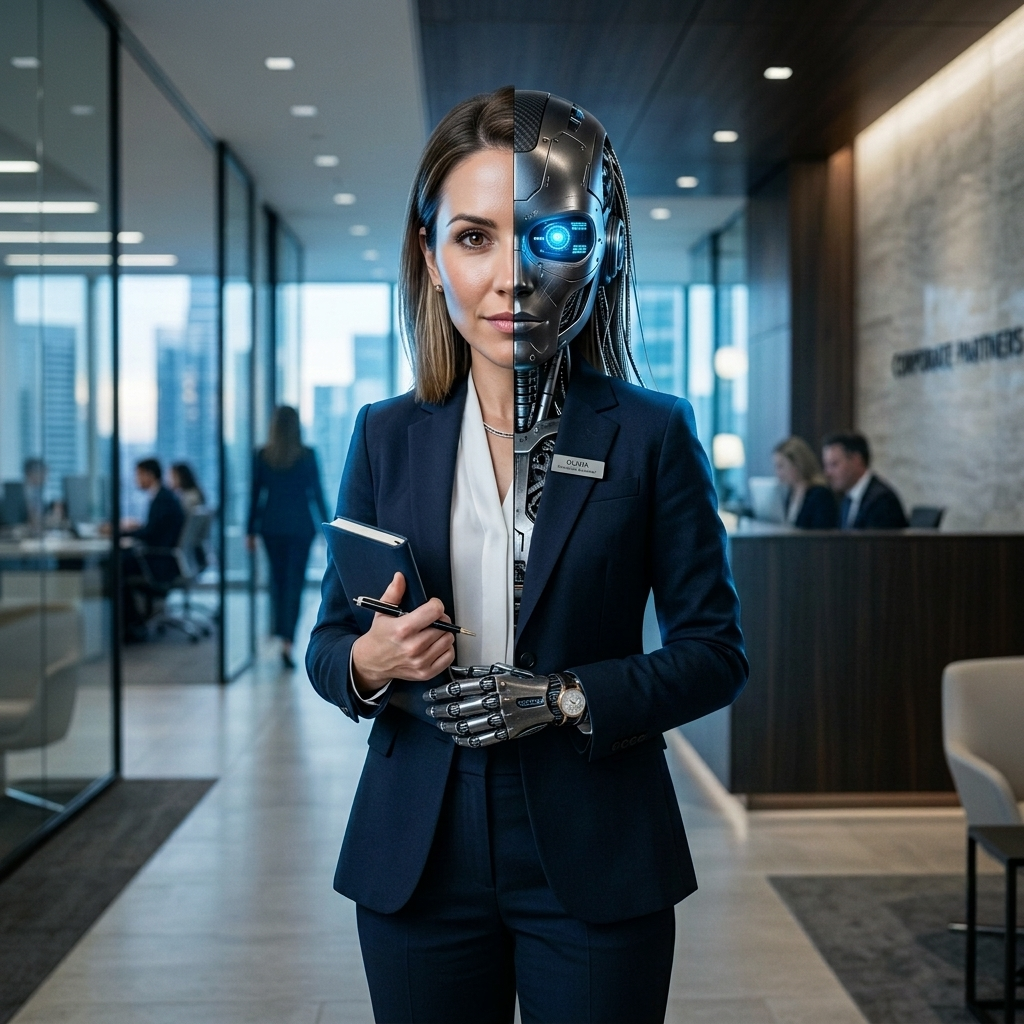
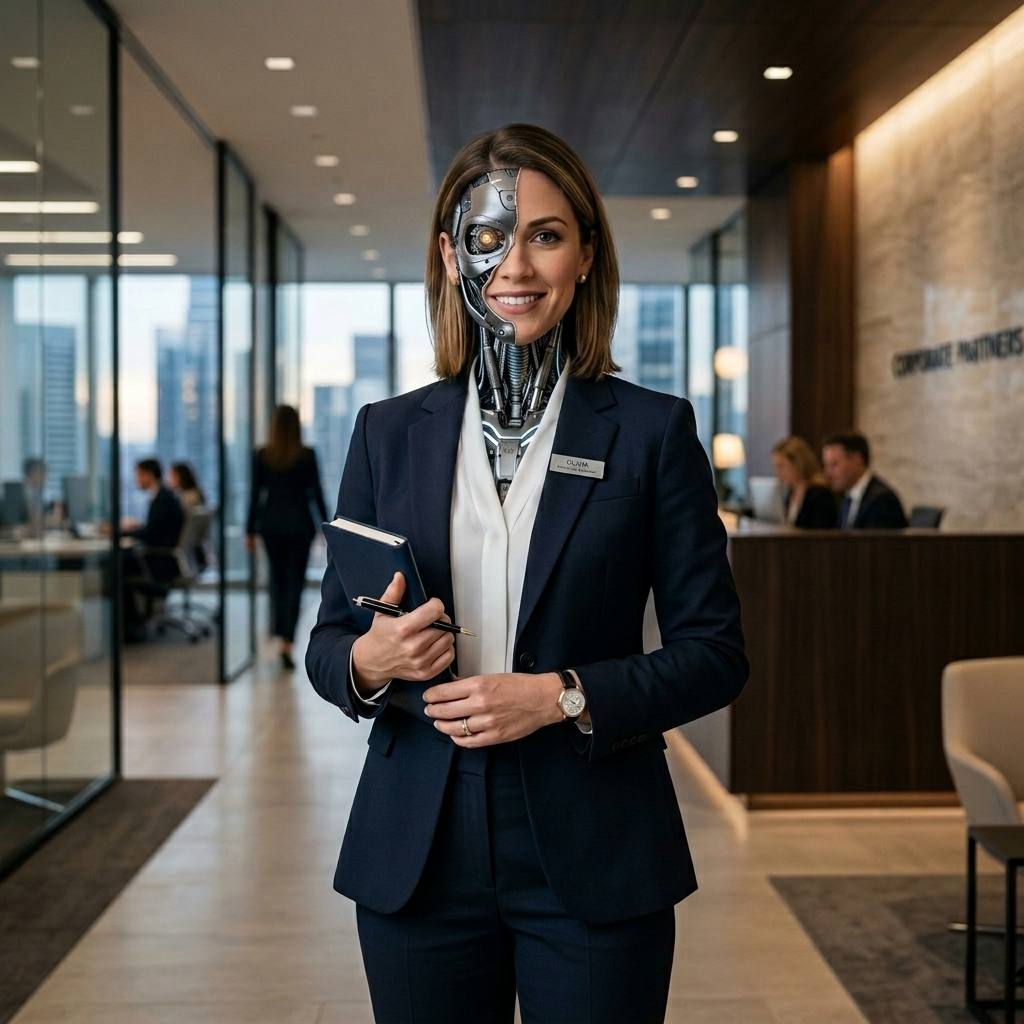
Add Quinn agent profile page + QuickBooks branding assets
- New agents/quinn.html: full profile (bank rec, AP/AR, payroll, GST/HST, monthly close)
- Time-savings table + interactive calculator (transactions, invoices)
- Quinn portrait + cyborg variant assets
- Quinn now linked from hero card, featured roster row, and footer roster lists

diff --git a/index.html b/index.html
@@ -87,7 +87,7 @@
                 <h3>Books closed by Friday.<br>Every Friday.</h3>
                 <div class="quinn-foot">
                     <img class="qb-logo" src="src/assets/quickbooks-logo.svg" alt="Certified for QuickBooks">
-                    <a href="#hire" class="play-row">
+                    <a href="agents/quinn.html" class="play-row">
                         <span class="play-btn">→</span>
                         <span class="play-label">Hire Quinn</span>
                     </a>
@@ -571,12 +571,13 @@
             </div>
             <div class="footer-links">
                 <div class="link-col">
-                    <h4>Roster</h4>
-                    <a href="#candidates">SDR</a>
-                    <a href="#candidates">Content Marketer</a>
-                    <a href="#candidates">Executive Assistant</a>
-                    <a href="#candidates">Paralegal</a>
-                    <a href="#candidates">Receptionist</a>
+                    <a href="agents/claire.html">Claire — Marketing</a>
+                    <a href="agents/sam.html">Sam — SDR</a>
+                    <a href="agents/olivia.html">Olivia — EA</a>
+                    <a href="agents/david.html">David — Paralegal</a>
+                    <a href="agents/maya.html">Maya — Receptionist</a>
+                    <a href="agents/theo.html">Theo — Community</a>
+                    <a href="agents/quinn.html">Quinn — Bookkeeper</a>
                 </div>
                 <div class="link-col">
                     <h4>Employers</h4>

diff --git a/agents/claire.html b/agents/claire.html
@@ -125,6 +125,7 @@
                     <a href="david.html">David — Paralegal</a>
                     <a href="maya.html">Maya — Receptionist</a>
                     <a href="theo.html">Theo — Community</a>
+                    <a href="quinn.html">Quinn — Bookkeeper</a>
                 </div>
                 <div class="link-col"><h4>Employers</h4>
                     <a href="../index.html#salary">Salary Guide</a>

diff --git a/agents/david.html b/agents/david.html
@@ -122,6 +122,7 @@
                     <a href="david.html">David — Paralegal</a>
                     <a href="maya.html">Maya — Receptionist</a>
                     <a href="theo.html">Theo — Community</a>
+                    <a href="quinn.html">Quinn — Bookkeeper</a>
                 </div>
                 <div class="link-col"><h4>Employers</h4>
                     <a href="../index.html#salary">Salary Guide</a>

diff --git a/agents/olivia.html b/agents/olivia.html
@@ -122,6 +122,7 @@
                     <a href="david.html">David — Paralegal</a>
                     <a href="maya.html">Maya — Receptionist</a>
                     <a href="theo.html">Theo — Community</a>
+                    <a href="quinn.html">Quinn — Bookkeeper</a>
                 </div>
                 <div class="link-col"><h4>Employers</h4>
                     <a href="../index.html#salary">Salary Guide</a>

diff --git a/agents/sam.html b/agents/sam.html
@@ -119,6 +119,7 @@
                     <a href="david.html">David — Paralegal</a>
                     <a href="maya.html">Maya — Receptionist</a>
                     <a href="theo.html">Theo — Community</a>
+                    <a href="quinn.html">Quinn — Bookkeeper</a>
                 </div>
                 <div class="link-col"><h4>Employers</h4>
                     <a href="../index.html#salary">Salary Guide</a>

diff --git a/agents/theo.html b/agents/theo.html
@@ -122,6 +122,7 @@
                     <a href="david.html">David — Paralegal</a>
                     <a href="maya.html">Maya — Receptionist</a>
                     <a href="theo.html">Theo — Community</a>
+                    <a href="quinn.html">Quinn — Bookkeeper</a>
                 </div>
                 <div class="link-col"><h4>Employers</h4>
                     <a href="../index.html#salary">Salary Guide</a>